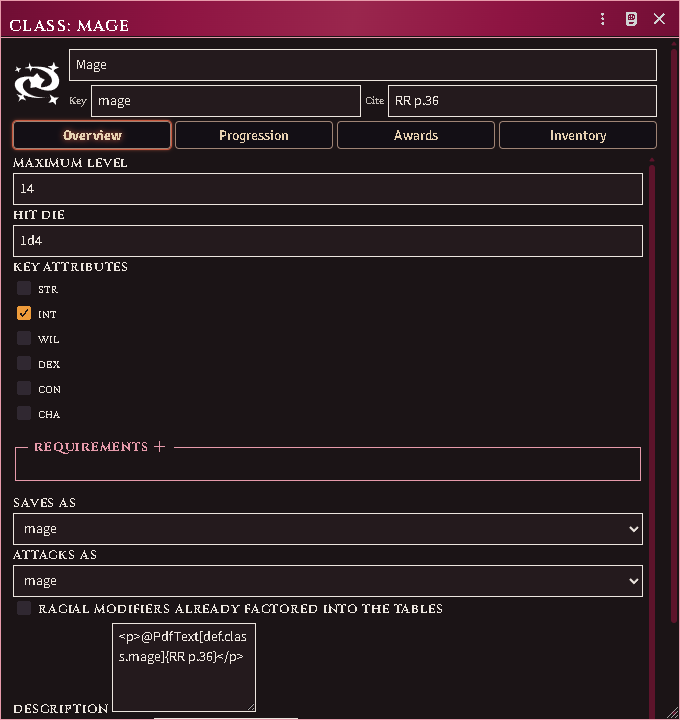
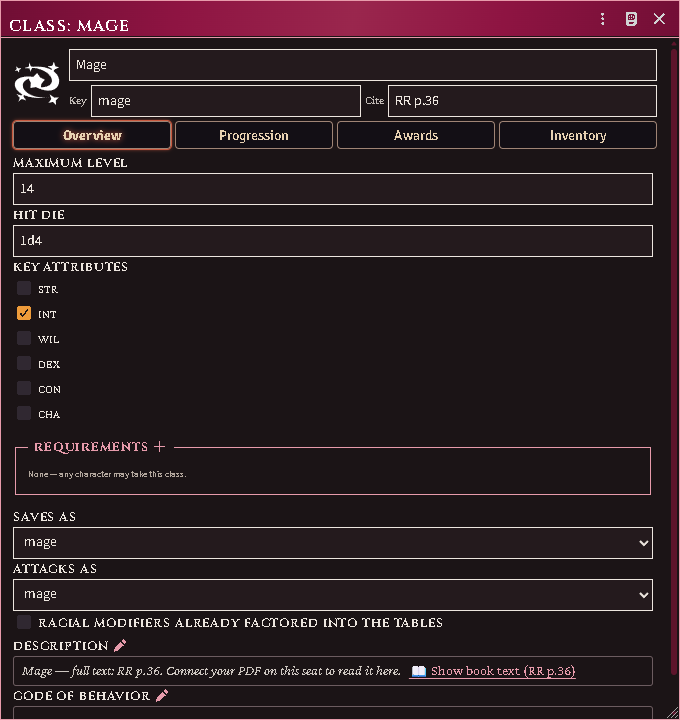
Template cells read like the page: spaced spells, split lines, footnote-fenced
gapMin 1.2 keeps the word gaps italic spell names sit in; banded cells
join per printed line so wraps stop fusing words; the table terminator
recognizes a bare footnote asterisk (the mage closes without a Notes
line); base resolution folds paren-stripped names, so an iron-shod
spellbook finds Spell Book (Blank); the six core classes ship marked.

Changed region(s): [[0.0, 0.6417, 0.8338, 1.0], [0.9265, 0.2139, 1.0, 1.0]]

diff --git a/docs/GALLERY.md b/docs/GALLERY.md
@@ -9,9 +9,10 @@ raw PNG path, so those links survive the next refresh.
 
 | Workflow | What it shows | Guide | Shot |
 |---|---|---|---|
-| Connect a book | The book loader, with three books already open on this seat | [guide](guides/connect-a-book.md) | [v1.0.0](releases/v1.0.0/book-loader.png) |
-| Import content | The onboarding panel: connect, then import everything the cookbook ships | [guide](guides/import-from-the-cookbook.md) | [v1.0.0](releases/v1.0.0/getting-started.png) |
-| Browse and audit | The entry picker — 467 abilities with their book and page citation | [guide](guides/browse-and-audit.md) | [v1.0.0](releases/v1.0.0/cookbook-import.png) |
+| Connect a book | The book loader, with the books this seat can open | [guide](guides/connect-a-book.md) | [v2.0.0](releases/v2.0.0/book-loader.png) |
+| Import content | The onboarding panel: connect, then import everything the cookbook ships | [guide](guides/import-from-the-cookbook.md) | [v2.0.0](releases/v2.0.0/getting-started.png) |
+| Import classes | A class read whole from the reader's book: progressions, awards, templates | [guide](guides/import-from-the-cookbook.md) | [v2.0.0](releases/v2.0.0/classes-import.png) |
+| Browse and audit | The entry picker — the abilities with their book and page citation | [guide](guides/browse-and-audit.md) | [v2.0.0](releases/v2.0.0/cookbook-import.png) |
 
 Snapshots are captured during the live-verification session of a release
 (`acks-module-template/docs/TOOLCHAIN.md` §4b), never staged afterwards. The
